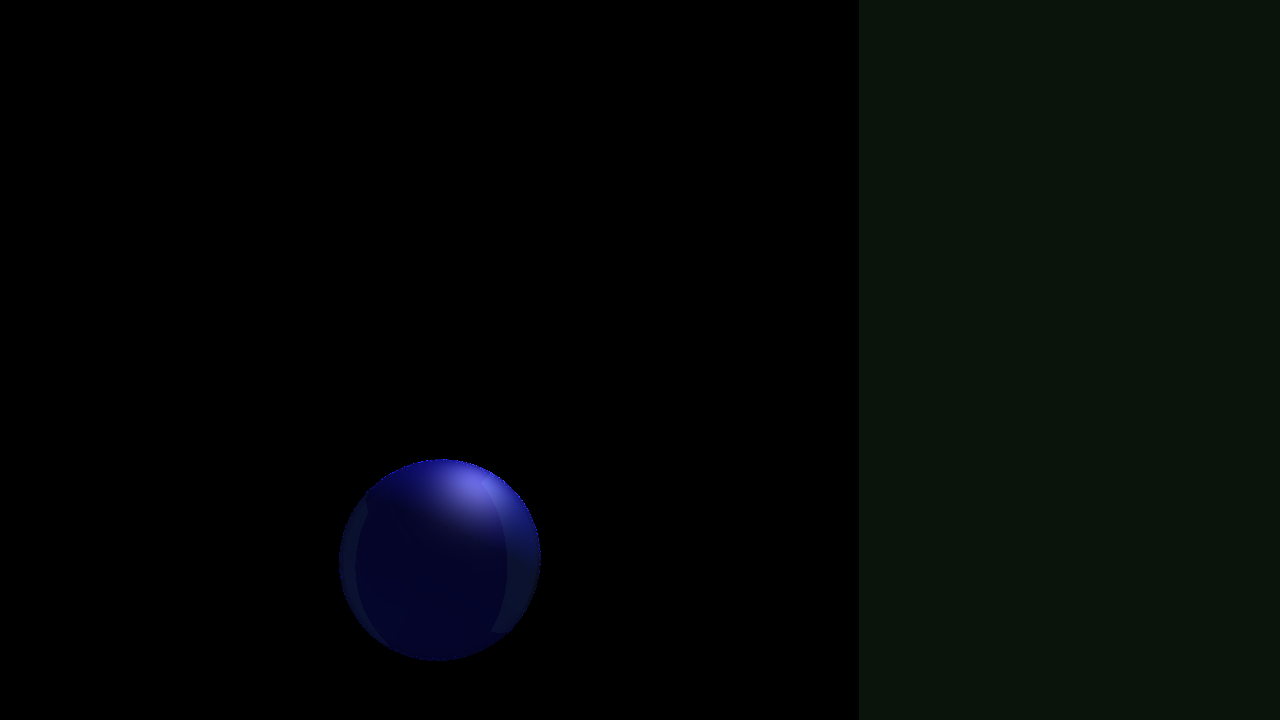
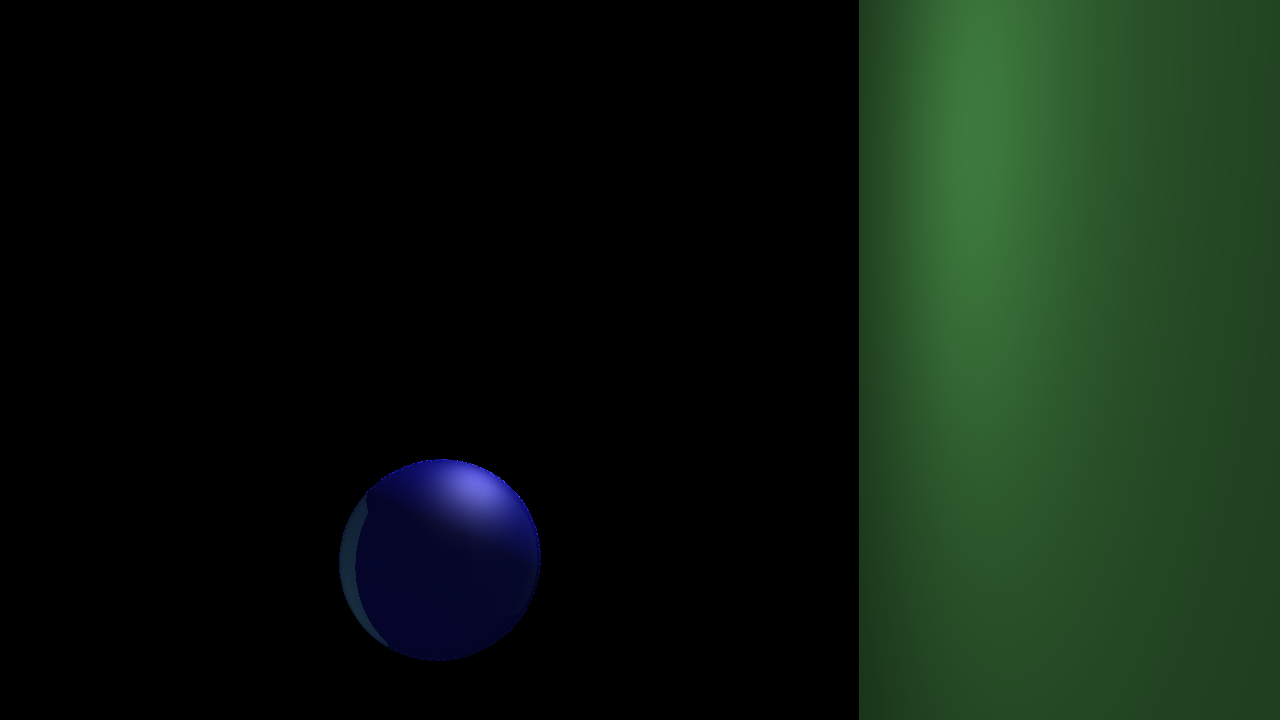
Improved ray-plane intersection code

diff --git a/src/Plane.cpp b/src/Plane.cpp
@@ -9,13 +9,15 @@ bool Plane::IntersectRay(const Ray& localRay, HitInfo& hitInfo, int hitSide) con
     if (abs(localRay.dir.z) < 1e-6f) return false;
 
     const float t{ -localRay.p.z / localRay.dir.z };
+    if (t < 0.0f) return false;
+
     const Vec3f pos{ localRay.p + localRay.dir * t };
     if (abs(pos.x) > 1.0f || abs(pos.y) > 1.0f) return false;
 
     hitInfo.z = t;
     hitInfo.p = pos;
     hitInfo.N = Vec3f{ 0.0f, 0.0f, 1.0f };
-    hitInfo.front = true;
+    hitInfo.front = localRay.dir.z < 0.0f;
     return true;
 } 
 
